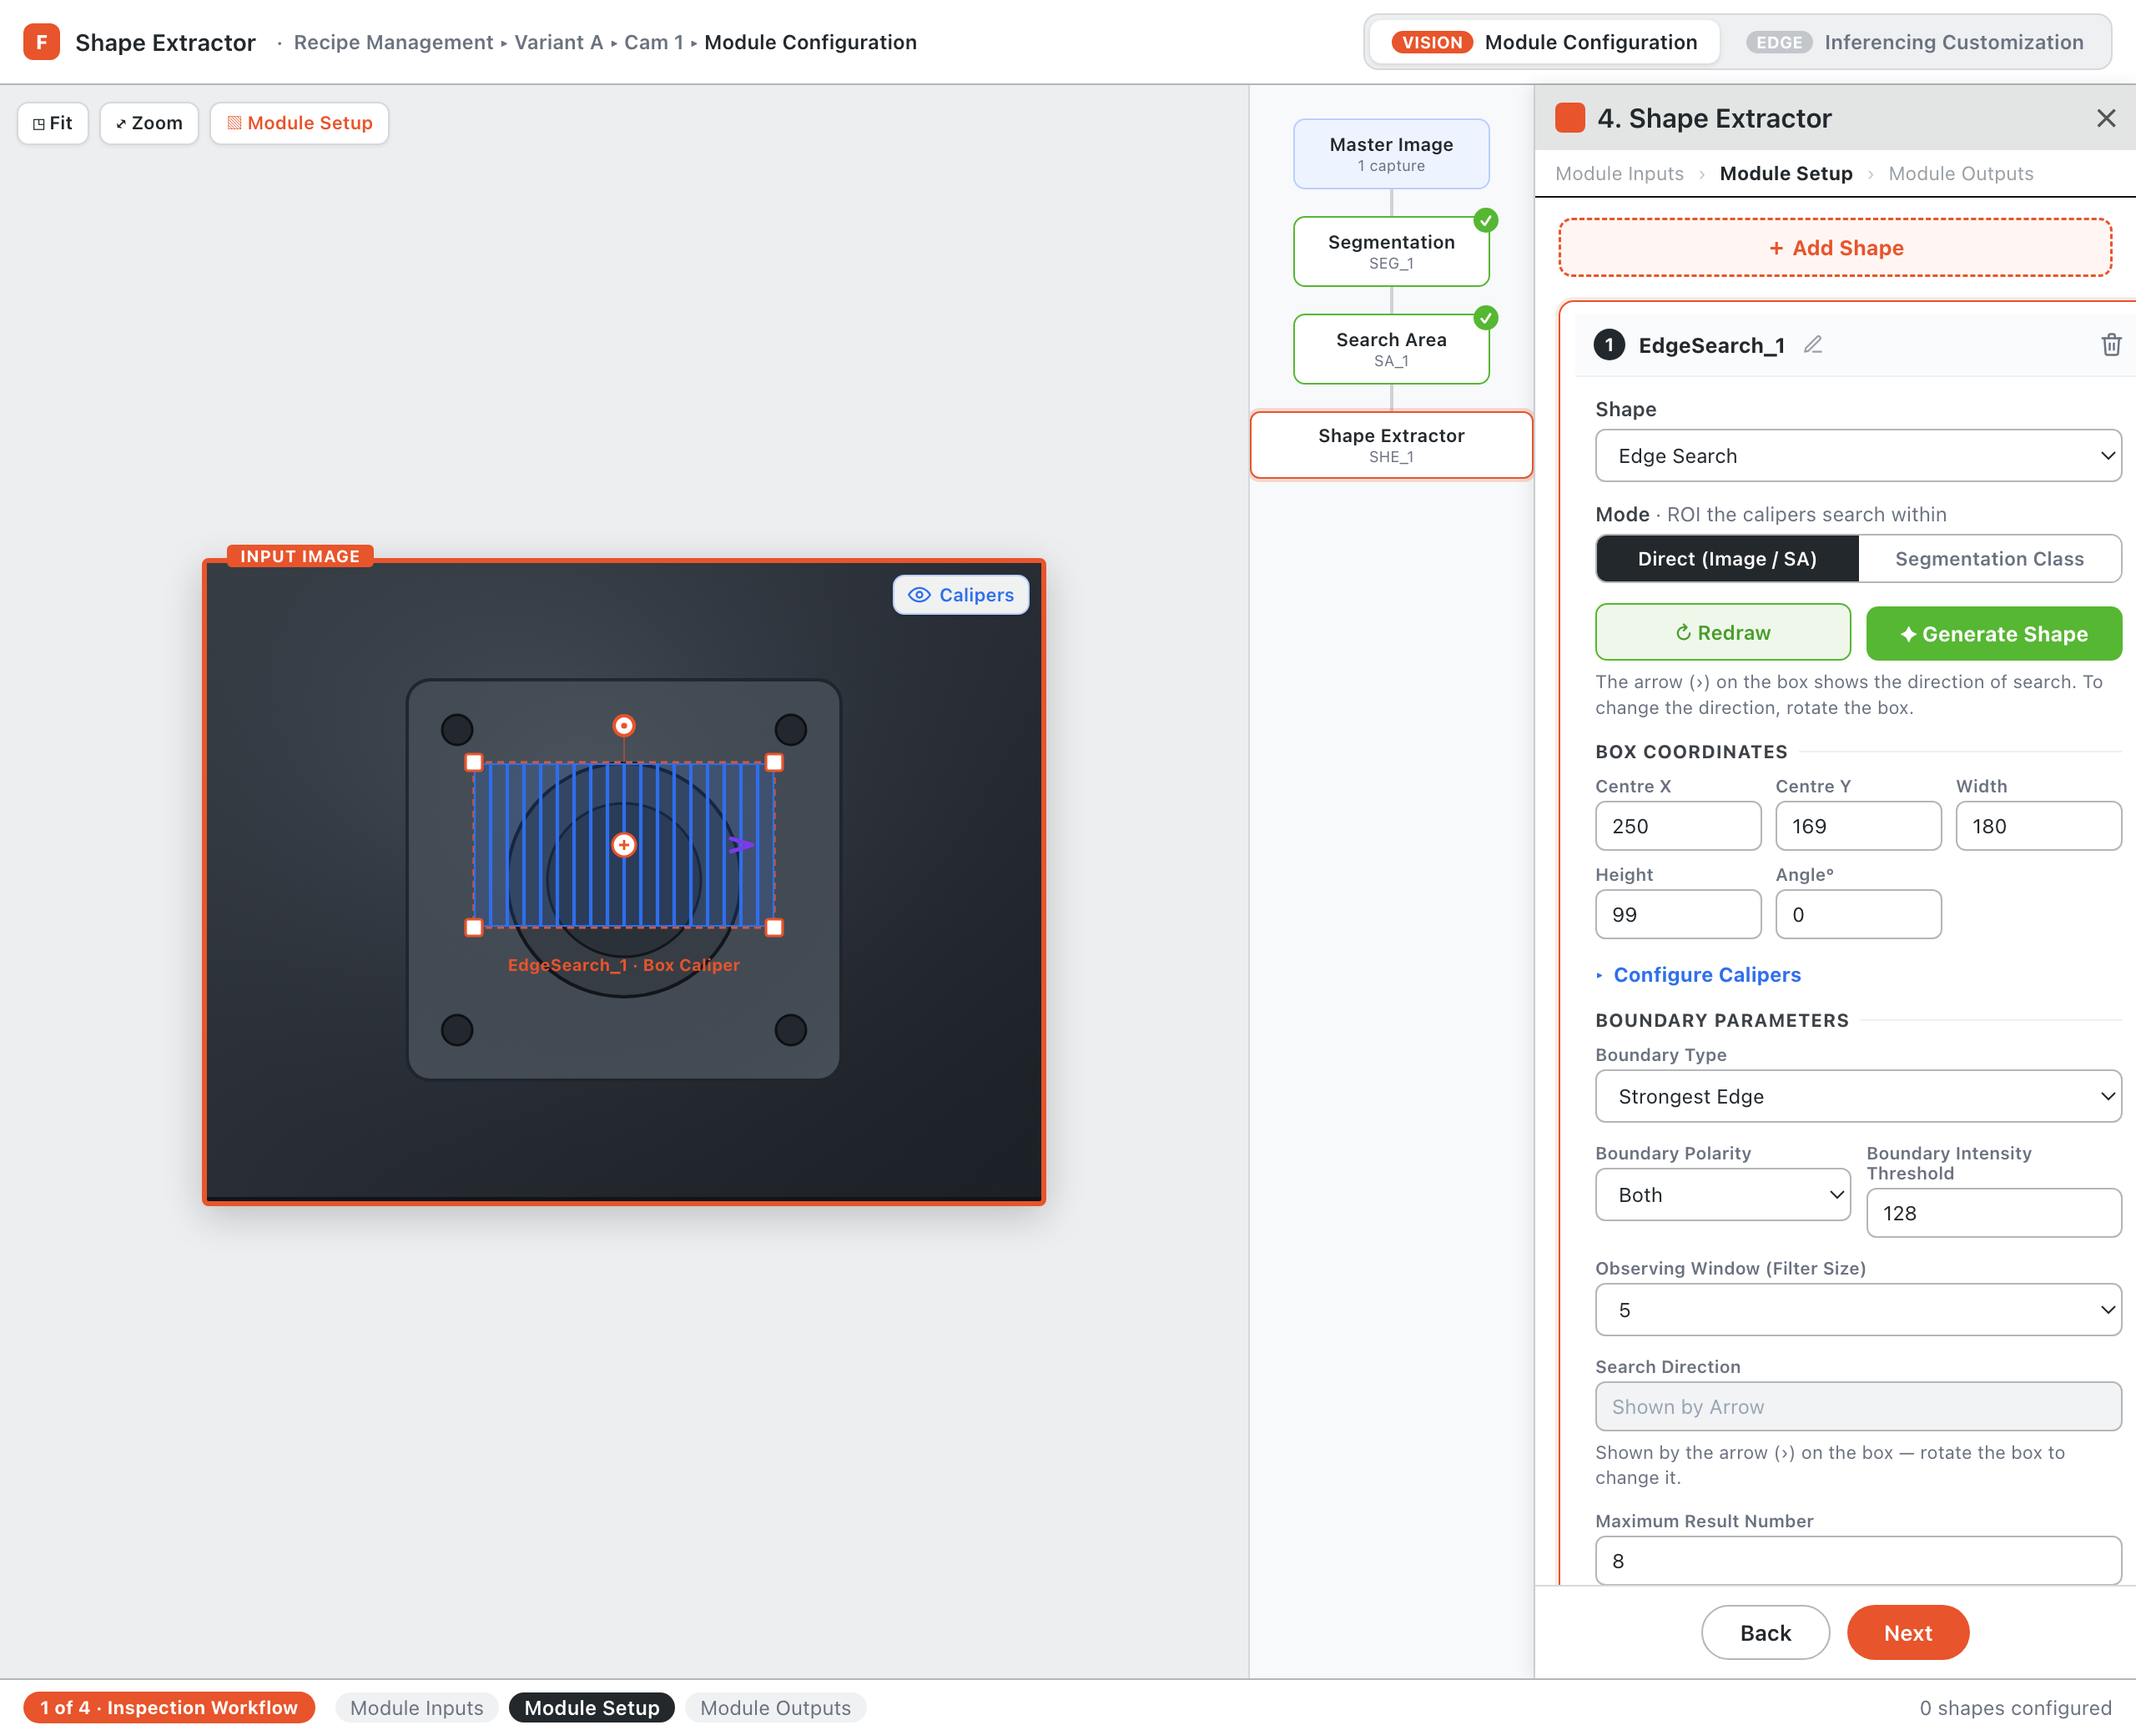
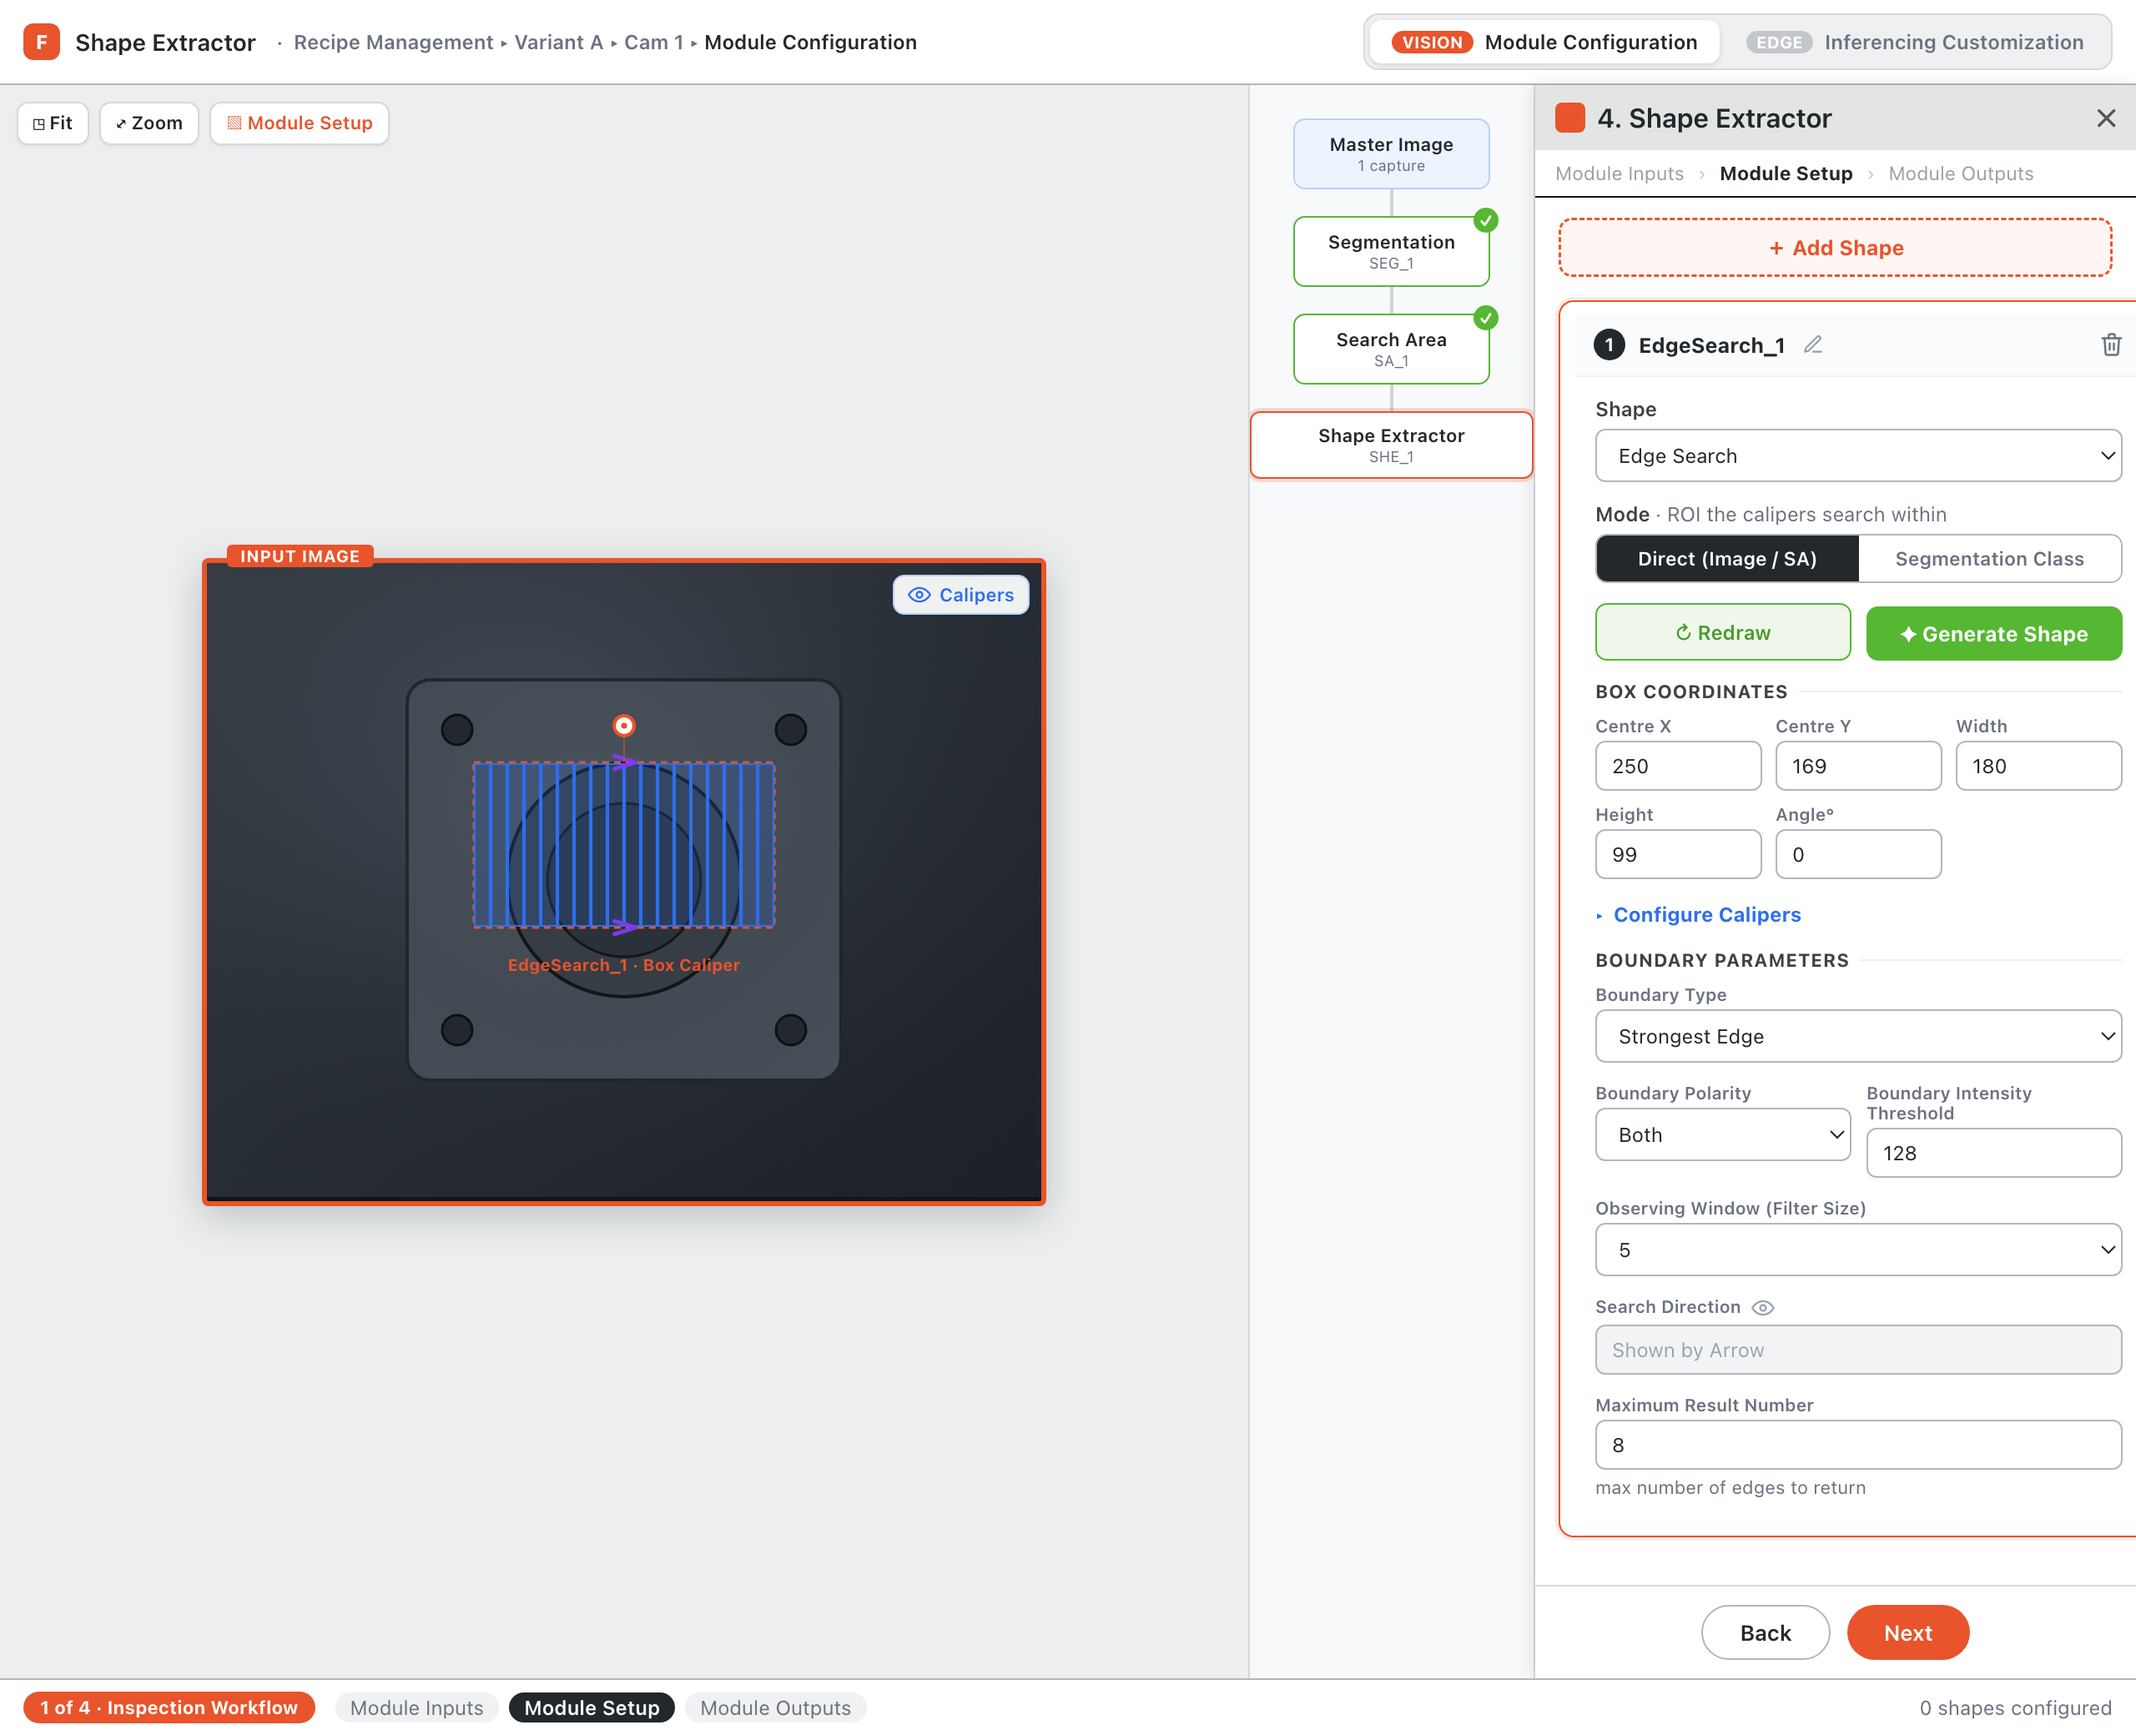
Canvas: only rotate handle shown (drag corners to stretch, interior to move); direction arrows on two opposite edges; move arrow help into Search Direction eye-tooltip; refresh screenshots

diff --git a/index.html b/index.html
@@ -117,6 +117,7 @@
   .field:last-child{margin-bottom:0;}
   .row2{display:grid;grid-template-columns:1fr 1fr;gap:9px;}
   .calrow{display:grid;grid-template-columns:repeat(auto-fit,minmax(72px,1fr));gap:8px;}
+  .eyehint{display:inline-flex;vertical-align:middle;margin-left:6px;color:#9aa4b2;cursor:help;}
   .row3{display:grid;grid-template-columns:1fr 1fr 1fr;gap:8px;}
   .rowcta{display:grid;grid-template-columns:1fr auto;gap:9px;align-items:end;}
   .modetoggle{display:flex;border:1px solid var(--line-d);border-radius:7px;overflow:hidden;}
@@ -564,11 +565,14 @@ function ShapeOverlay({ shape, draft, drawKind, showCal }) {
   const cor = boxCorners(cx, cy, w, h, ang);
   const rad = ang * Math.PI / 180, cos = Math.cos(rad), sin = Math.sin(rad);
   const local = (dx, dy) => [cx + dx * cos - dy * sin, cy + dx * sin + dy * cos];
-  // search-direction chevron: box-local direction (from the draw), rotates with the box
-  const localDir = (c.dir || 0), alongW = (localDir % 180) === 0, reach = alongW ? w / 2 : h / 2;
-  const dlx = localDir === 180 ? -reach : localDir === 0 ? reach : 0;
-  const dly = localDir === 270 ? -reach : localDir === 90 ? reach : 0;
-  const dirEdge = local(dlx, dly), dirBase = local(dlx * 0.55, dly * 0.55);
+  // search-direction chevrons: shown on the TWO OPPOSITE edges of the box (not inside), pointing along the draw direction; rotate with the box
+  const localDir = (c.dir || 0), alongW = (localDir % 180) === 0;
+  const acrossHalf = alongW ? h / 2 : w / 2, acrossAxis = alongW ? [0, 1] : [1, 0];
+  const drad = (localDir + ang) * Math.PI / 180, dvec = [Math.cos(drad), Math.sin(drad)];
+  const dirChevrons = [1, -1].map((s, i) => {
+    const E = local(acrossAxis[0] * acrossHalf * s, acrossAxis[1] * acrossHalf * s);
+    return <Chevron key={'dc' + i} p0={[E[0] - dvec[0] * 7, E[1] - dvec[1] * 7]} p1={[E[0] + dvec[0] * 7, E[1] + dvec[1] * 7]} color={PURPLE} />;
+  });
   const n = Math.min(cal.number || 12, 120);
   let calipers = null, inner = null, extraGuide = null;
 
@@ -623,7 +627,7 @@ function ShapeOverlay({ shape, draft, drawKind, showCal }) {
       <polygon points={cor.map((p) => p.join(',')).join(' ')} fill="#2f6fed0f" stroke={ORANGE} strokeWidth="1.6" strokeDasharray="4 3" />
       {extraGuide}
       {showCal && calipers}
-      <Chevron p0={dirBase} p1={dirEdge} color={PURPLE} />
+      {dirChevrons}
       {inner}
       <text x={cx} y={cy + h / 2 + 26} fill={ORANGE} fontSize="10" fontWeight="700" textAnchor="middle">{shape.name || spec.label}{shape.type === 'line' ? ' · Line ROI' : ' · Box Caliper'}</text>
     </g>
@@ -686,20 +690,16 @@ function Canvas({ activeShape, segMode, arming, onDrawn, onRotate, onCoords, edi
   // interactive handles (after drawn, not arming): move / resize / rotate
   let handlesJsx = null;
   if (editable && activeShape && activeShape.drawn && !arming && activeShape.type && activeShape.type !== 'quad') {
-    const c = activeShape.coords, t = activeShape.type, HS = 5;
-    const sq = (p, mode, key, cursor) => (
-      <rect key={key} x={p[0] - HS} y={p[1] - HS} width={HS * 2} height={HS * 2} rx="1.5"
-        fill="#fff" stroke="#e8542b" strokeWidth="1.6" style={{ cursor }} onMouseDown={startDrag(mode)} />
-    );
-    const moveDot = (mx, my) => (
-      <g key="mv" onMouseDown={startDrag('move')} style={{ cursor: 'move' }}>
-        <circle cx={mx} cy={my} r="7" fill="#fff" stroke="#e8542b" strokeWidth="1.6" />
-        <path d={`M${mx - 3} ${my}h6M${mx} ${my - 3}v6`} stroke="#e8542b" strokeWidth="1.4" />
-      </g>
-    );
+    const c = activeShape.coords, t = activeShape.type;
+    // No explicit drag/stretch affordances (only rotate is shown): drag a corner to stretch, drag the interior to move.
     if (t === 'circle') {
       const cx = c.cx ?? 250, cy = c.cy ?? 190, r = c.r ?? 70;
-      handlesJsx = <g>{moveDot(cx, cy)}{sq([cx + r, cy], 'resize-circle', 'rc', 'ew-resize')}</g>;
+      handlesJsx = (
+        <g>
+          <circle cx={cx} cy={cy} r={Math.max(6, r)} fill="transparent" style={{ cursor: 'move' }} onMouseDown={startDrag('move')} />
+          <circle cx={cx} cy={cy} r={Math.max(6, r)} fill="none" stroke="transparent" strokeWidth="16" style={{ cursor: 'nwse-resize', pointerEvents: 'stroke' }} onMouseDown={startDrag('resize-circle')} />
+        </g>
+      );
     } else {
       const cx = c.cx ?? 250, cy = c.cy ?? 190, w = c.w ?? 190, h = c.h ?? 120, ang = c.angle || 0;
       const cor = boxCorners(cx, cy, w, h, ang);
@@ -708,8 +708,8 @@ function Canvas({ activeShape, segMode, arming, onDrawn, onRotate, onCoords, edi
       const rot = [topMid[0] + nx / nl * 22, topMid[1] + ny / nl * 22];
       handlesJsx = (
         <g>
-          {moveDot(cx, cy)}
-          {cor.map((p, i) => sq(p, 'resize-box', 'rb' + i, 'nwse-resize'))}
+          <polygon points={cor.map((p) => p.join(',')).join(' ')} fill="transparent" style={{ cursor: 'move' }} onMouseDown={startDrag('move')} />
+          {cor.map((p, i) => <circle key={'rb' + i} cx={p[0]} cy={p[1]} r="11" fill="transparent" style={{ cursor: 'nwse-resize' }} onMouseDown={startDrag('resize-box')} />)}
           <line x1={topMid[0]} y1={topMid[1]} x2={rot[0]} y2={rot[1]} stroke="#e8542b" strokeWidth="1" opacity=".5" />
           <g onMouseDown={startDrag('rotate')} style={{ cursor: 'grab' }}>
             <circle cx={rot[0]} cy={rot[1]} r="6" fill="#fff" stroke="#e8542b" strokeWidth="2" />
@@ -795,7 +795,9 @@ function BoundaryEditor({ spec, boundary, patch }) {
         </div>
       )}
       <div className="field">
-        <span className="tinylab">Search Direction</span>
+        <span className="tinylab">Search Direction{!spec.boundary.searchDirection && (
+          <span className="eyehint" title="The arrow (›) on the two opposite edges of the box shows the direction of search. Rotate the box to change it."><EyeIcon on={true} /></span>
+        )}</span>
         {spec.boundary.searchDirection ? (
           <select className="sel" value={boundary.searchDirection} onChange={(e) => patch({ searchDirection: e.target.value })}>
             {SEARCH_DIRECTIONS.map((d) => <option key={d}>{d}</option>)}
@@ -803,9 +805,9 @@ function BoundaryEditor({ spec, boundary, patch }) {
         ) : (
           <input className="inp" value="Shown by Arrow" disabled readOnly />
         )}
-        <div className="hint">{spec.boundary.searchDirection
-          ? 'Direction each caliper searches for the boundary, relative to the centre.'
-          : 'Shown by the arrow (›) on the box — rotate the box to change it.'}</div>
+        {spec.boundary.searchDirection && (
+          <div className="hint">Direction each caliper searches for the boundary, relative to the centre.</div>
+        )}
       </div>
       {spec.extras.map(([k, lab, sub]) => (
         <div className="field" key={k}>
@@ -987,9 +989,6 @@ function ShapeCard({ shape, idx, selected, onSelect, onChange, onRemove, showErr
               </button>
             )}
             {arming && <div className="hint">{spec.drawKind === 'circle' ? 'Drag from centre outward to set the radius.' : 'Drag to draw the rectangular ROI.'}</div>}
-            {shape.drawn && isBoxCaliper && (
-              <div className="hint">The arrow (›) on the box shows the direction of search. To change the direction, rotate the box.</div>
-            )}
             {shape.drawn && shape.mode === 'segmentation' && !shape.offMask && <div className="okline">✓ Calipers overlap the segmentation mask</div>}
             {overlapErr && <div className="err">⚠ Drawn ROI has no overlap with the segmentation mask. Reposition / redraw the shape.</div>}
             {shape.drawn && axisErr && <div className="err">⚠ Fix the ellipse axis values below before generating.</div>}
@@ -1401,9 +1400,6 @@ function EdgeShapeCard({ shape, idx, selected, onSelect, onChange }) {
               <input className="roinput" value={(CLASS_MASKS.find((m) => m.id === shape.classMask) || {}).label || ''} readOnly /></div>
           )}
 
-          {(spec.drawKind === 'box' || spec.drawKind === 'quad') && (
-            <div className="hint" style={{ marginBottom: 12 }}>The arrow (›) on the box shows the direction of search. To change the direction, rotate the box.</div>
-          )}
 
           {/* Editable coordinates */}
           <div className="field">
